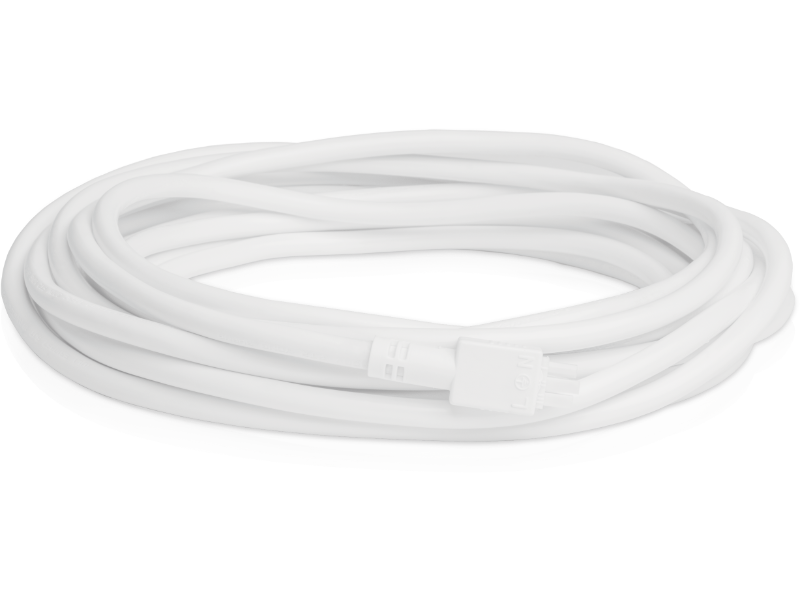
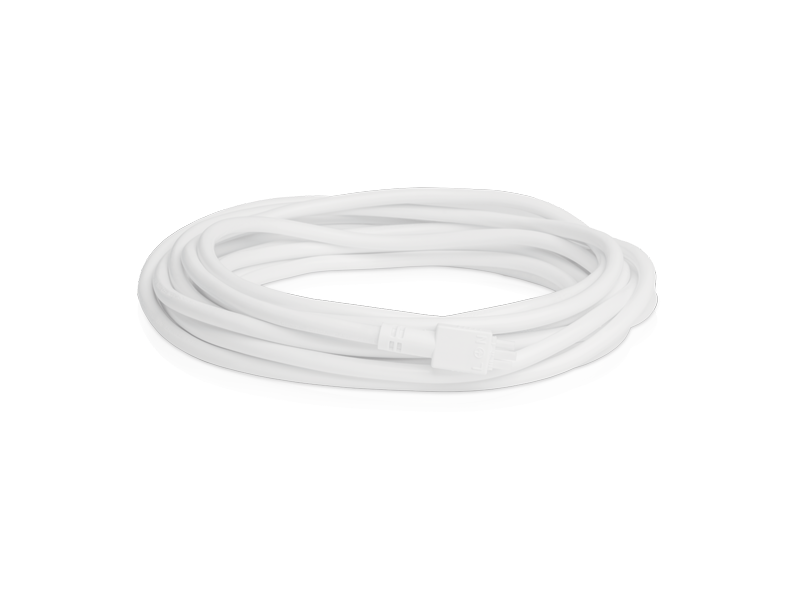
update ELV with 3pin

diff --git a/graze-wl.html b/graze-wl.html
@@ -303,10 +303,10 @@ Small in physical size, yet powerful with up to 1200 lm/ft. Wall wash any applic
 <div class="midContent" style="max-width: 993px;">
       <div class="row no-gutters-accs">
         <div class="col-xs-6 col-sm-4 accs"><center><span>Leader Cables</span></center><center>
-<img src="images/Accessories/MMCGI/ResizedPhotos/MMCGI 5pin 25ft LC.png">
+<img src="images/Accessories/MMCGI/ResizedPhotos/MMCGI 3pin 25ft LC.png">
 </center>
 			<center><span>10ft and 25ft</span></center></div>
-		<div class="col-xs-6 col-sm-4 accs"><center><span>Jumper Cables</span></center><img src="images/Accessories/MMCGI/ResizedPhotos/MMCGI 5pin 4ft JC.png">
+		<div class="col-xs-6 col-sm-4 accs"><center><span>Jumper Cables</span></center><img src="images/Accessories/MMCGI/ResizedPhotos/MMCGI 3pin 4ft JC.png">
 					<center><span>1ft and 4ft</span></center></div>
 		<div class="col-xs-6 col-sm-4 accs"><center><span>Terminators</span></center><img src="images/Accessories/MMCGI/ResizedPhotos/MMCGI 5pin Terminator.png">
 			<center><span>Power end caps</span></center></div>

diff --git a/mmc-sc.html b/mmc-sc.html
@@ -228,10 +228,10 @@ Designed & Developed by MODA LIGHT in Las Vegas, USA.
 <div class="midContent" style="max-width: 993px;">
       <div class="row no-gutters-accs">
         <div class="col-xs-6 col-sm-4 accs"><center><span>Leader Cables</span></center><center>
-<img src="images/Accessories/MMCGI/ResizedPhotos/MMCGI 5pin 25ft LC.png">
+<img src="images/Accessories/MMCGI/ResizedPhotos/MMCGI 3pin 25ft LC.png">
 </center>
 			<center><span>10ft and 25ft</span></center></div>
-		<div class="col-xs-6 col-sm-4 accs"><center><span>Jumper Cables</span></center><img src="images/Accessories/MMCGI/ResizedPhotos/MMCGI 5pin 4ft JC.png">
+		<div class="col-xs-6 col-sm-4 accs"><center><span>Jumper Cables</span></center><img src="images/Accessories/MMCGI/ResizedPhotos/MMCGI 3pin 4ft JC.png">
 					<center><span>1ft and 4ft</span></center></div>
 		<div class="col-xs-6 col-sm-4 accs"><center><span>Terminators</span></center><img src="images/Accessories/MMCGI/ResizedPhotos/MMCGI 5pin Terminator.png">
 			<center><span>Power end caps</span></center></div>

diff --git a/cove-sc.html b/cove-sc.html
@@ -275,10 +275,10 @@ ga('send', 'pageview');
 <div class="midContent" style="max-width: 993px;">
       <div class="row no-gutters-accs">
         <div class="col-xs-6 col-sm-4 accs"><center><span>Leader Cables</span></center><center>
-<img src="images/Accessories/MMCGI/ResizedPhotos/MMCGI 5pin 25ft LC.png">
+<img src="images/Accessories/MMCGI/ResizedPhotos/MMCGI 3pin 25ft LC.png">
 </center>
 			<center><span>10ft and 25ft</span></center></div>
-		<div class="col-xs-6 col-sm-4 accs"><center><span>Jumper Cables</span></center><img src="images/Accessories/MMCGI/ResizedPhotos/MMCGI 5pin 4ft JC.png">
+		<div class="col-xs-6 col-sm-4 accs"><center><span>Jumper Cables</span></center><img src="images/Accessories/MMCGI/ResizedPhotos/MMCGI 3pin 4ft JC.png">
 					<center><span>1ft and 4ft</span></center></div>
 		<div class="col-xs-6 col-sm-4 accs"><center><span>Terminators</span></center><img src="images/Accessories/MMCGI/ResizedPhotos/MMCGI 5pin Terminator.png">
 			<center><span>Power end caps</span></center></div>

diff --git a/cove-wl.html b/cove-wl.html
@@ -289,10 +289,10 @@ ga('send', 'pageview');
 <div class="midContent" style="max-width: 993px;">
       <div class="row no-gutters-accs">
         <div class="col-xs-6 col-sm-4 accs"><center><span>Leader Cables</span></center><center>
-<img src="images/Accessories/MMCGI/ResizedPhotos/MMCGI 5pin 25ft LC.png">
+<img src="images/Accessories/MMCGI/ResizedPhotos/MMCGI 3pin 25ft LC.png">
 </center>
 			<center><span>10ft and 25ft</span></center></div>
-		<div class="col-xs-6 col-sm-4 accs"><center><span>Jumper Cables</span></center><img src="images/Accessories/MMCGI/ResizedPhotos/MMCGI 5pin 4ft JC.png">
+		<div class="col-xs-6 col-sm-4 accs"><center><span>Jumper Cables</span></center><img src="images/Accessories/MMCGI/ResizedPhotos/MMCGI 3pin 4ft JC.png">
 					<center><span>1ft and 4ft</span></center></div>
 		<div class="col-xs-6 col-sm-4 accs"><center><span>Terminators</span></center><img src="images/Accessories/MMCGI/ResizedPhotos/MMCGI 5pin Terminator.png">
 			<center><span>Power end caps</span></center></div>

diff --git a/graze-sc.html b/graze-sc.html
@@ -256,10 +256,10 @@ ga('send', 'pageview');
 <div class="midContent" style="max-width: 993px;">
       <div class="row no-gutters-accs">
         <div class="col-xs-6 col-sm-4 accs"><center><span>Leader Cables</span></center><center>
-<img src="images/Accessories/MMCGI/ResizedPhotos/MMCGI 5pin 25ft LC.png">
+<img src="images/Accessories/MMCGI/ResizedPhotos/MMCGI 3pin 25ft LC.png">
 </center>
 			<center><span>10ft and 25ft</span></center></div>
-		<div class="col-xs-6 col-sm-4 accs"><center><span>Jumper Cables</span></center><img src="images/Accessories/MMCGI/ResizedPhotos/MMCGI 5pin 4ft JC.png">
+		<div class="col-xs-6 col-sm-4 accs"><center><span>Jumper Cables</span></center><img src="images/Accessories/MMCGI/ResizedPhotos/MMCGI 3pin 4ft JC.png">
 					<center><span>1ft and 4ft</span></center></div>
 		<div class="col-xs-6 col-sm-4 accs"><center><span>Terminators</span></center><img src="images/Accessories/MMCGI/ResizedPhotos/MMCGI 5pin Terminator.png">
 			<center><span>Power end caps</span></center></div>

diff --git a/mmc-wl.html b/mmc-wl.html
@@ -300,10 +300,10 @@ ga('send', 'pageview');
 <div class="midContent" style="max-width: 993px;">
       <div class="row no-gutters-accs">
         <div class="col-xs-6 col-sm-4 accs"><center><span>Leader Cables</span></center><center>
-<img src="images/Accessories/MMCGI/ResizedPhotos/MMCGI 5pin 25ft LC.png">
+<img src="images/Accessories/MMCGI/ResizedPhotos/MMCGI 3pin 25ft LC.png">
 </center>
 			<center><span>10ft and 25ft</span></center></div>
-		<div class="col-xs-6 col-sm-4 accs"><center><span>Jumper Cables</span></center><img src="images/Accessories/MMCGI/ResizedPhotos/MMCGI 5pin 4ft JC.png">
+		<div class="col-xs-6 col-sm-4 accs"><center><span>Jumper Cables</span></center><img src="images/Accessories/MMCGI/ResizedPhotos/MMCGI 3pin 4ft JC.png">
 					<center><span>1ft and 4ft</span></center></div>
 		<div class="col-xs-6 col-sm-4 accs"><center><span>Terminators</span></center><img src="images/Accessories/MMCGI/ResizedPhotos/MMCGI 5pin Terminator.png">
 			<center><span>Power end caps</span></center></div>

diff --git a/mmg-wl.html b/mmg-wl.html
@@ -285,10 +285,10 @@ ga('send', 'pageview');
 <div class="midContent" style="max-width: 993px;">
       <div class="row no-gutters-accs">
         <div class="col-xs-6 col-sm-4 accs"><center><span>Leader Cables</span></center><center>
-<img src="images/Accessories/MMCGI/ResizedPhotos/MMCGI 5pin 25ft LC.png">
+<img src="images/Accessories/MMCGI/ResizedPhotos/MMCGI 3pin 25ft LC.png">
 </center>
 			<center><span>10ft and 25ft</span></center></div>
-		<div class="col-xs-6 col-sm-4 accs"><center><span>Jumper Cables</span></center><img src="images/Accessories/MMCGI/ResizedPhotos/MMCGI 5pin 4ft JC.png">
+		<div class="col-xs-6 col-sm-4 accs"><center><span>Jumper Cables</span></center><img src="images/Accessories/MMCGI/ResizedPhotos/MMCGI 3pin 4ft JC.png">
 					<center><span>1ft and 4ft</span></center></div>
 		<div class="col-xs-6 col-sm-4 accs"><center><span>Terminators</span></center><img src="images/Accessories/MMCGI/ResizedPhotos/MMCGI 5pin Terminator.png">
 			<center><span>Power end caps</span></center></div>

diff --git a/mmg-sc.html b/mmg-sc.html
@@ -231,10 +231,10 @@ or 0-10V.</p></div>
 <div class="midContent" style="max-width: 993px;">
       <div class="row no-gutters-accs">
         <div class="col-xs-6 col-sm-4 accs"><center><span>Leader Cables</span></center><center>
-<img src="images/Accessories/MMCGI/ResizedPhotos/MMCGI 5pin 25ft LC.png">
+<img src="images/Accessories/MMCGI/ResizedPhotos/MMCGI 3pin 25ft LC.png">
 </center>
 			<center><span>10ft and 25ft</span></center></div>
-		<div class="col-xs-6 col-sm-4 accs"><center><span>Jumper Cables</span></center><img src="images/Accessories/MMCGI/ResizedPhotos/MMCGI 5pin 4ft JC.png">
+		<div class="col-xs-6 col-sm-4 accs"><center><span>Jumper Cables</span></center><img src="images/Accessories/MMCGI/ResizedPhotos/MMCGI 3pin 4ft JC.png">
 					<center><span>1ft and 4ft</span></center></div>
 		<div class="col-xs-6 col-sm-4 accs"><center><span>Terminators</span></center><img src="images/Accessories/MMCGI/ResizedPhotos/MMCGI 5pin Terminator.png">
 			<center><span>Power end caps</span></center></div>
